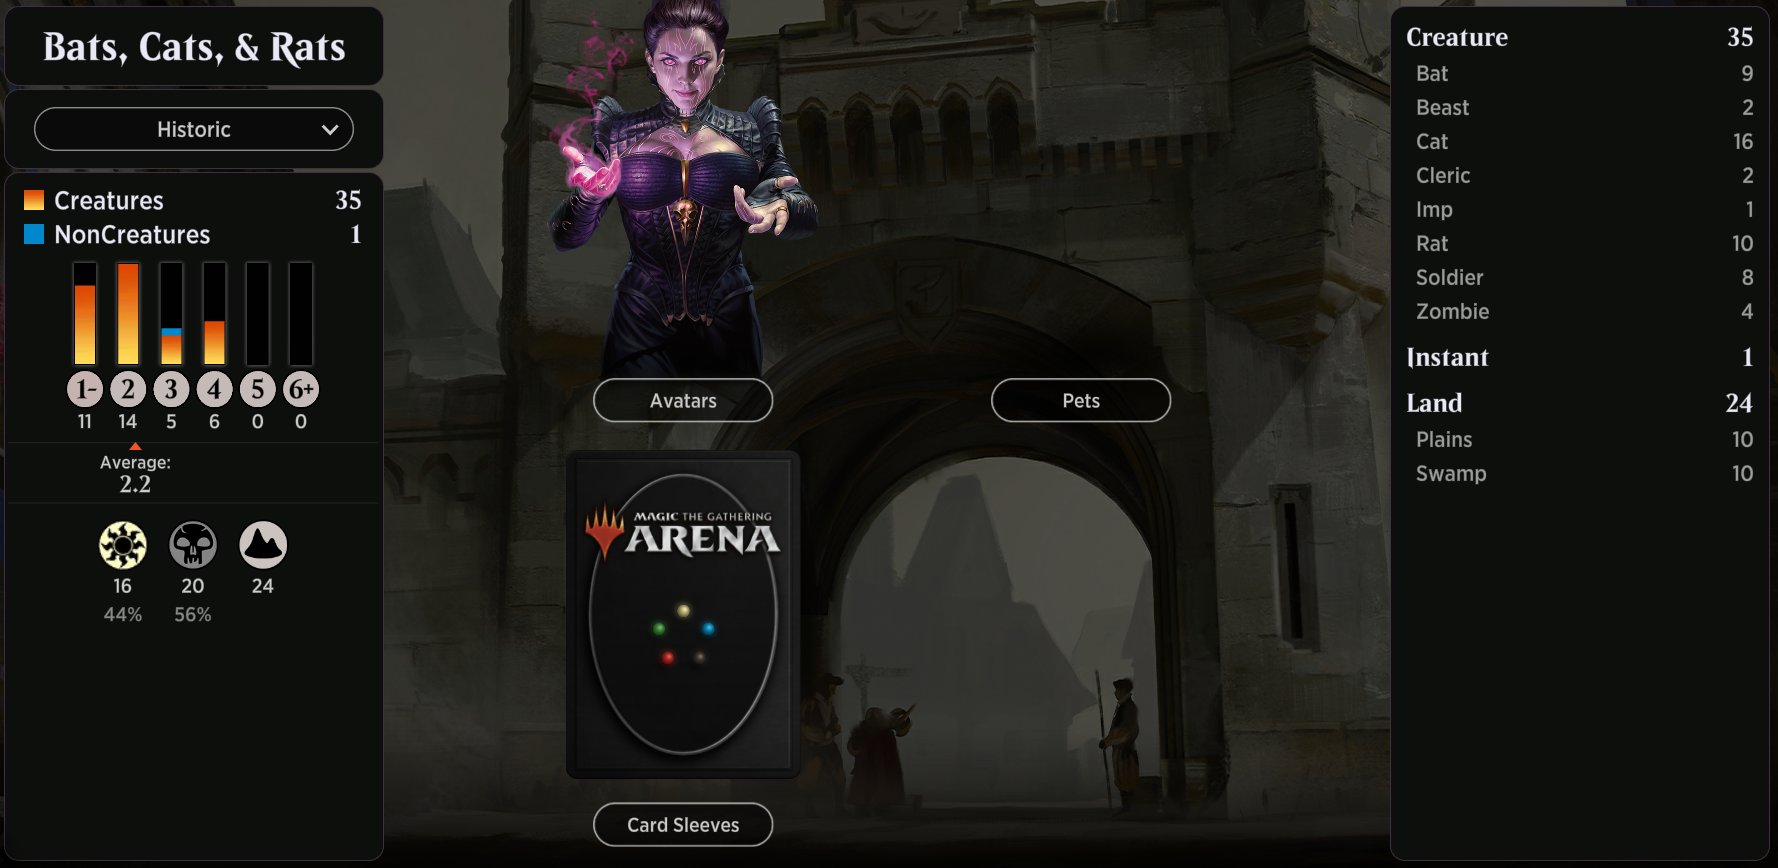
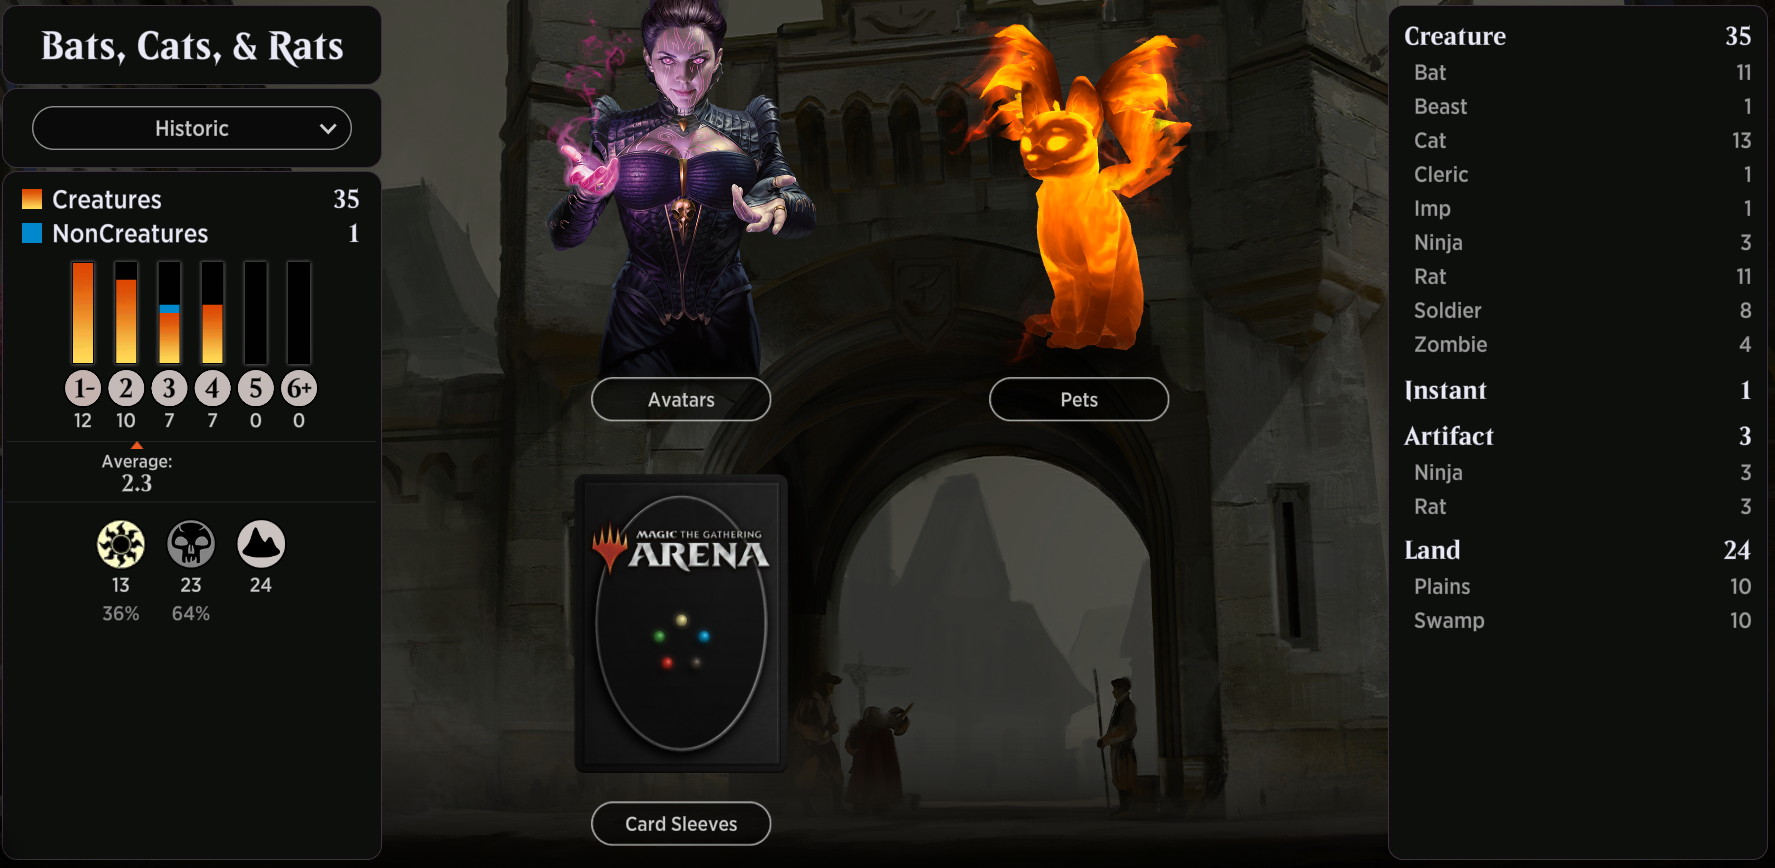
Update Magic Arena data

diff --git a/Magic the Gathering/Magic Arena/Arena/Current/Bats, Cats, and Rats.md b/Magic the Gathering/Magic Arena/Arena/Current/Bats, Cats, and Rats.md
@@ -18,6 +18,33 @@ Deck
 2 Ajani's Pridemate (WAR) 4
 4 Leonin Vanguard (M19) 22
 2 Leonin Warleader (M19) 23
+4 Typhoid Rats (ANB) 63
+1 Pack Rat (RTR) 73
+1 Murder (M20) 109
+4 Brightclimb Pathway (ZNR) 259
+3 Sacred Cat (AKR) 34
+1 Leonin Sanctifier (J21) 4
+1 Prowling Felidar (ZNR) 34
+2 Blighted Bat (JMP) 205
+2 Malakir Familiar (JMP) 253
+2 Burglar Rat (GRN) 64
+1 Plaguecrafter's Familiar (J21) 18
+2 Mukotai Ambusher (NEO) 112
+2 Courier Bat (VOW) 102
+2 Bloodhunter Bat (JMP) 210
+1 Nezumi Prowler (NEO) 116
+```
+
+## 220709
+```
+Deck
+10 Plains (UST) 212
+10 Swamp (UST) 214
+1 Blight Keeper (XLN) 92
+2 Ghastly Gloomhunter (ZNR) 103
+2 Ajani's Pridemate (WAR) 4
+4 Leonin Vanguard (M19) 22
+2 Leonin Warleader (M19) 23
 2 Typhoid Rats (ANB) 63
 2 Pack Rat (RTR) 73
 1 Murder (M20) 109
